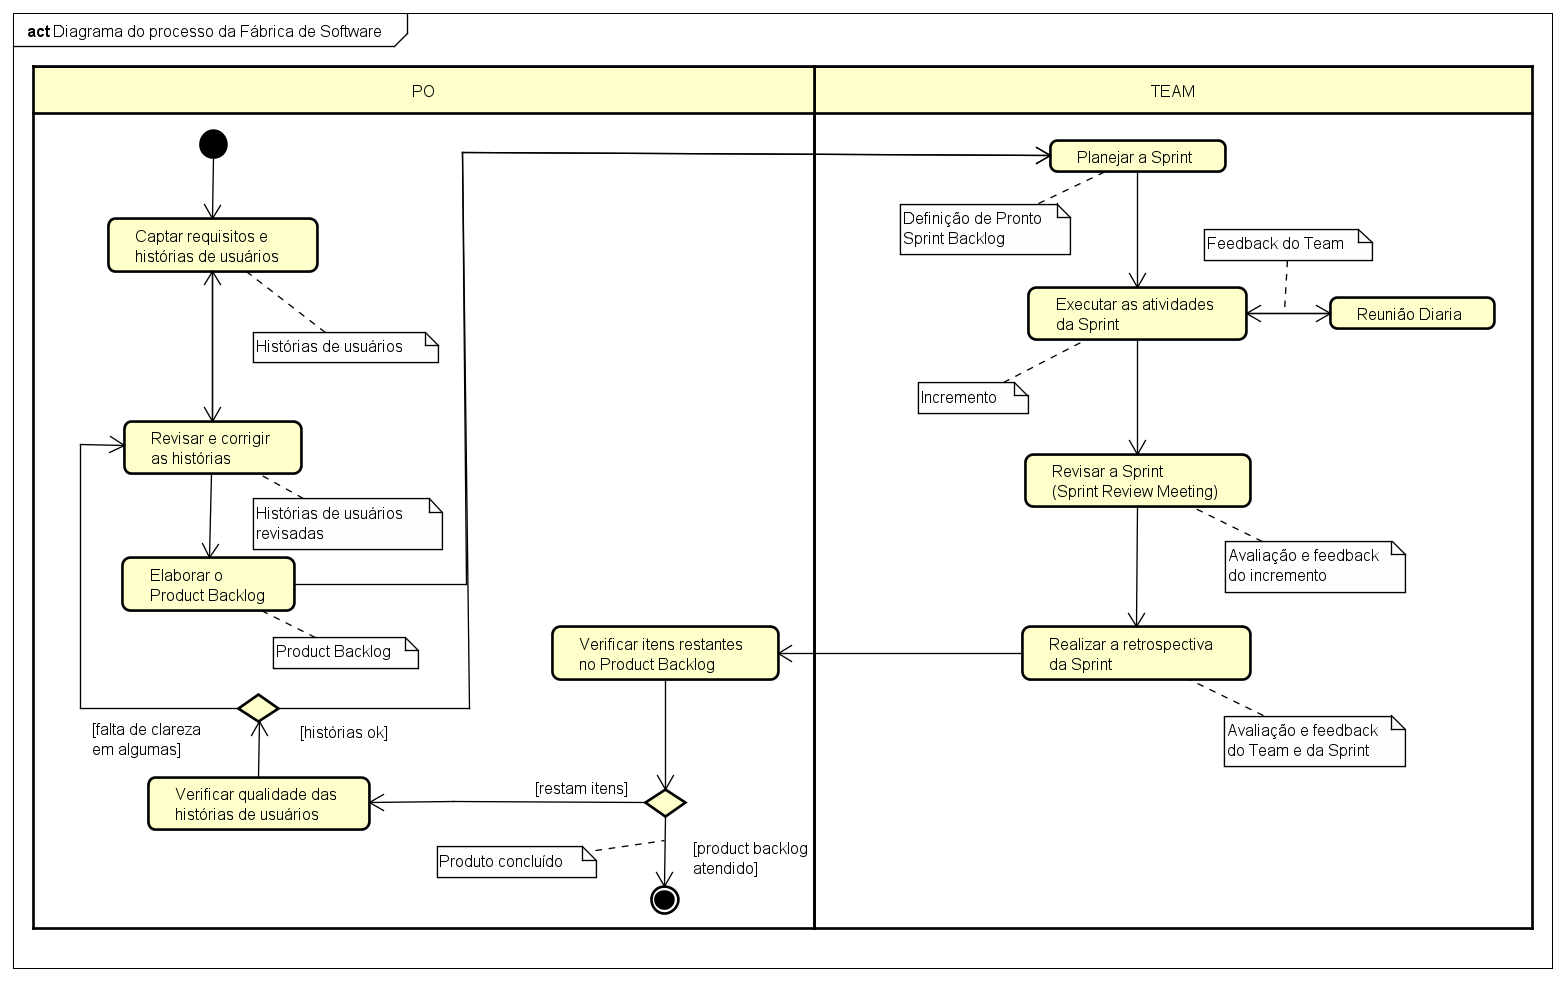
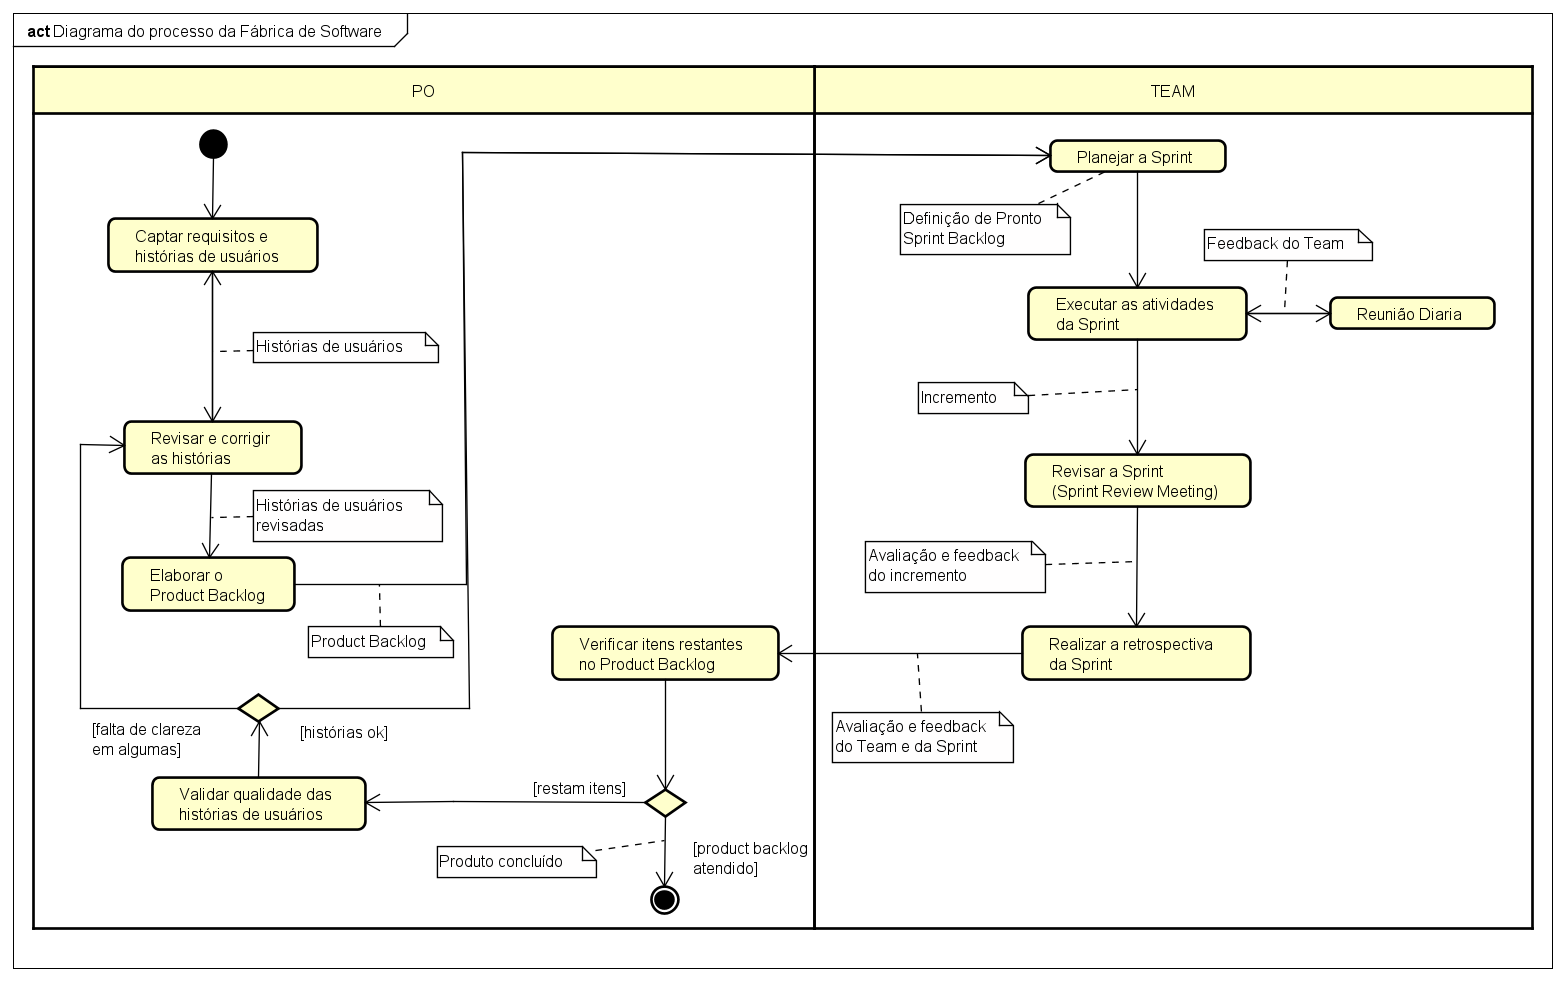
corrigir imagem do diagrama

diff --git a/styles/clickable-boxes.css b/styles/clickable-boxes.css
@@ -86,8 +86,8 @@
     left: 35.3%;
 }
 #verificar_historias {
-    width: 14.4%;
+    width: 13.7%;
     height: 5.6%;
     top: 78.7%;
-    left: 9.3%;
+    left: 9.7%;
 }
